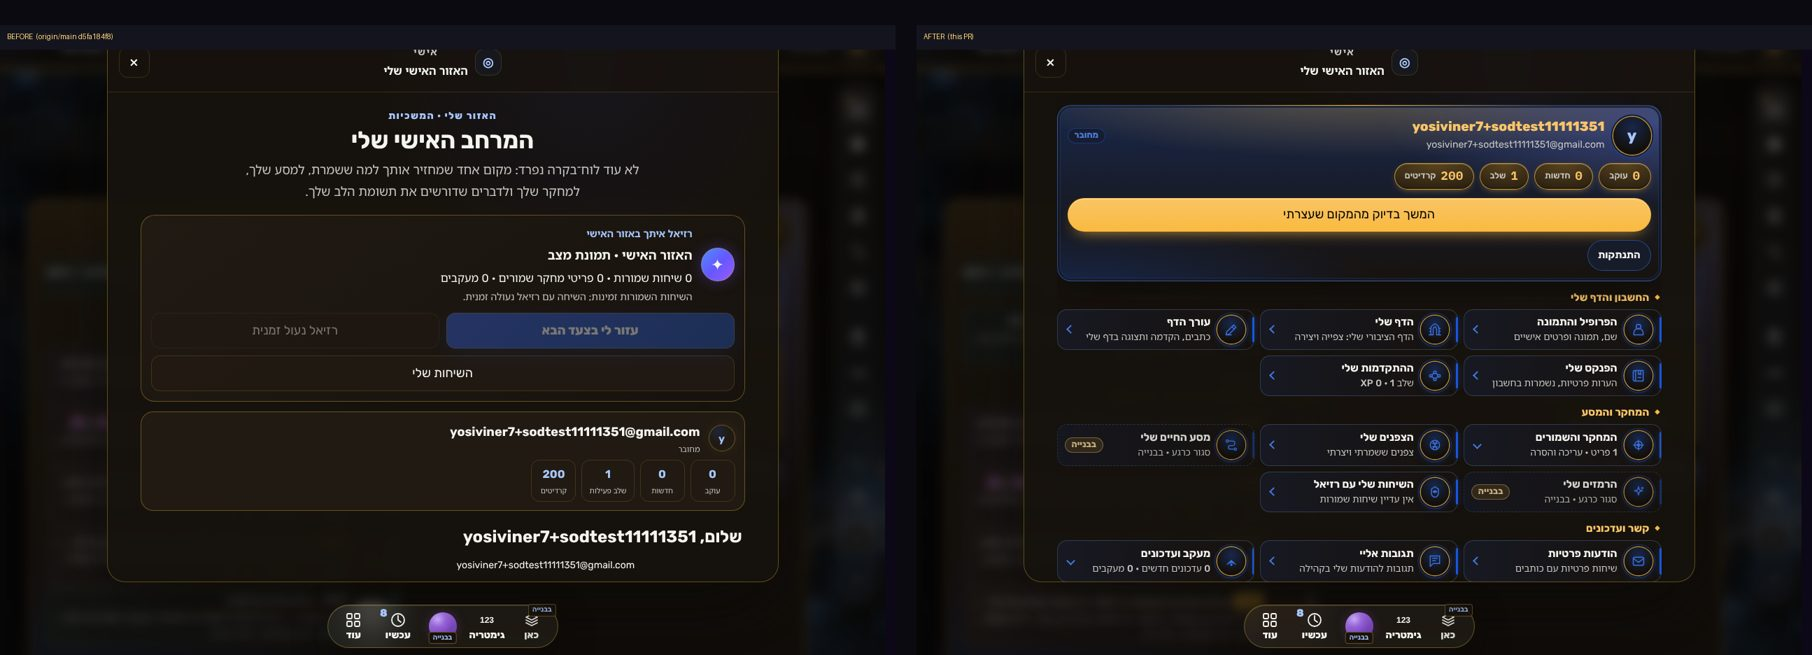
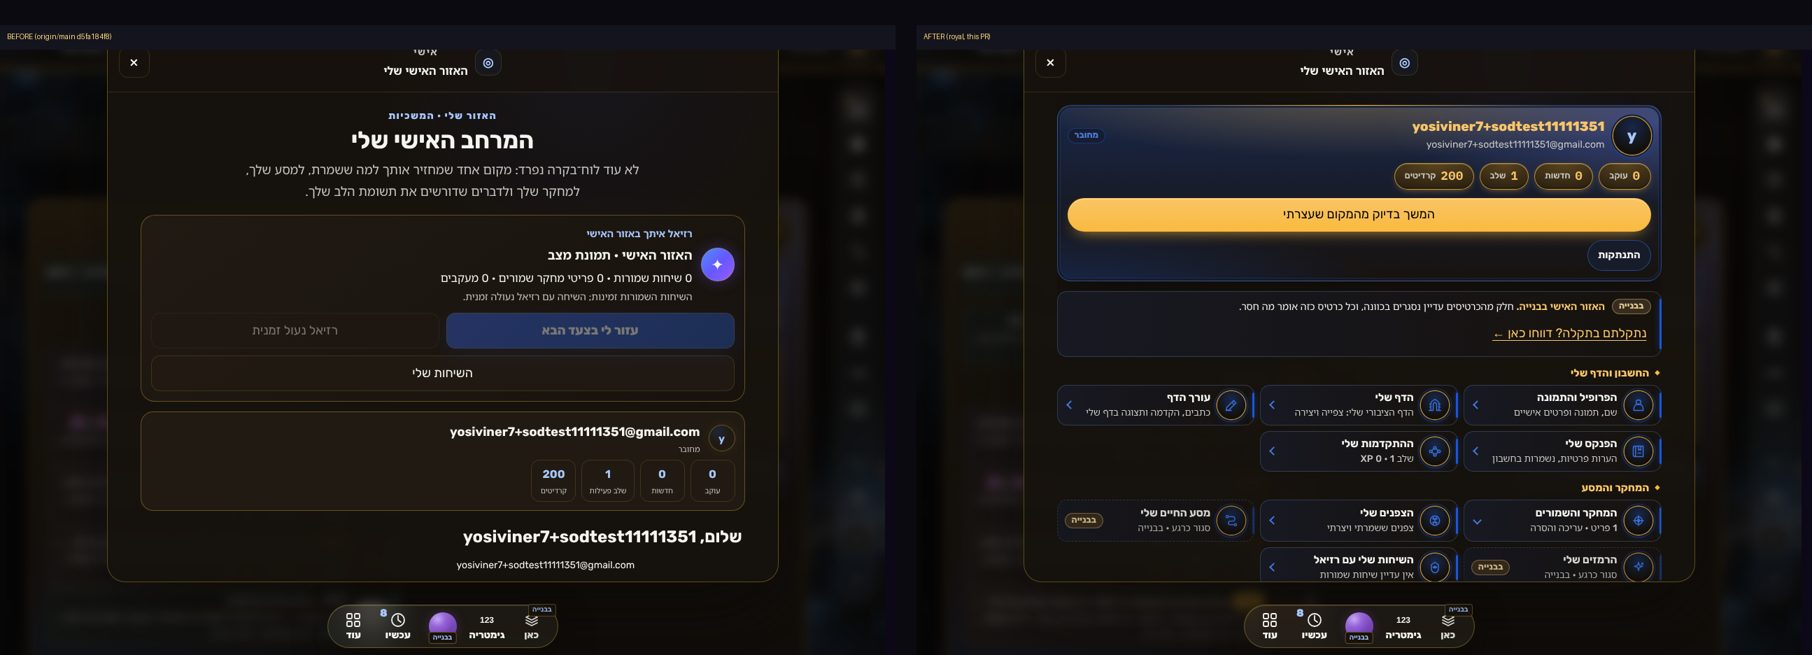
Personal area 2029: royal sign-in (gold, ordered buttons), real Google/Facebook marks, build notice with fault-report link; evidence refreshed
Claude-Session: https://claude.ai/code/session_01H7739JfjFRejdcKEqPQo2e

diff --git a/src/components/experience2029/personalArea2029.css b/src/components/experience2029/personalArea2029.css
@@ -102,3 +102,56 @@ button.pa29-card,.pa29-more-head{cursor:pointer}
 }
 @media (prefers-reduced-motion:reduce){.pa29 *{transition:none!important}}
 @media (forced-colors:active){.pa29-primary{border:2px solid ButtonText;background:ButtonFace;color:ButtonText}.pa29-chev{border-color:ButtonText}}
+
+/* ── Royal sign-in inside the hall (ZURIEL 11.11): gold-ink headings, lit fields, ONE gold action, providers side by side with their real marks,
+   then the quiet links. Order of a guest's form: email → main action → "או" → Google | Facebook → notes → links. ─────────────────────── */
+.pa29-account .sod29-account-entry[data-auth-state="guest"]{display:grid;gap:10px;text-align:center;justify-items:stretch}
+.pa29-account .sod29-account-entry[data-auth-state="guest"] h2{font:800 21px/1.3 var(--s29-font-display,var(--s29-font-ui,inherit));color:var(--r29-gold-ink);margin:0}
+.pa29-account .sod29-account-entry[data-auth-state="guest"]>p{margin:0;font-size:15px;line-height:1.55;color:var(--s29-muted)}
+.pa29-account .sod29-account-entry [data-signup-updates-policy]{margin:0;padding:10px 12px;border-radius:var(--r29-radius-sm);text-align:start;
+  border:1px solid color-mix(in srgb,var(--r29-sapphire) 38%,var(--s29-line));background:color-mix(in srgb,var(--r29-sapphire) 10%,var(--s29-panel))}
+.pa29-account .sod29-account-entry [data-signup-updates-policy] strong{font-size:14px;color:var(--r29-gold-ink)}
+.pa29-account .sod29-account-entry [data-signup-updates-policy] p{margin:4px 0 0;font-size:13px;line-height:1.5;color:var(--s29-muted)}
+.pa29-account .sod29-account-entry form{display:grid;gap:8px;text-align:start}
+.pa29-account .sod29-account-entry label{font:750 14px/1.2 var(--s29-font-ui,inherit);color:var(--r29-gold-ink)}
+.pa29-account .sod29-account-entry input{min-block-size:50px;border-radius:var(--r29-radius-sm);color:var(--s29-ink);
+  border:1px solid color-mix(in srgb,var(--r29-gold) 45%,var(--s29-line));
+  background:linear-gradient(180deg,color-mix(in srgb,var(--r29-sapphire) 12%,var(--s29-panel)),color-mix(in srgb,var(--s29-page) 40%,var(--s29-panel)));
+  box-shadow:inset 0 1px 0 color-mix(in srgb,var(--r29-shine) 10%,transparent)}
+.pa29-account .sod29-account-entry input:focus-visible{outline:2px solid var(--s29-focus-ring,var(--r29-gold));outline-offset:2px;border-color:var(--r29-gold)}
+.pa29-account .sod29-account-entry input::placeholder{color:color-mix(in srgb,var(--s29-muted) 80%,transparent)}
+/* the main action of the form: gold, like the hall's */
+.pa29-account .sod29-account-entry button.sod29-auth-primary[type="submit"]{min-block-size:50px;margin-top:2px;border-radius:999px;font:800 16px/1.2 var(--s29-font-ui,inherit);
+  color:color-mix(in oklab,var(--r29-gold) 10%,black);border:1px solid color-mix(in srgb,var(--r29-gold) 85%,transparent);
+  background:linear-gradient(180deg,color-mix(in oklab,var(--r29-gold) 86%,white),var(--r29-gold));
+  box-shadow:inset 0 1px 0 color-mix(in srgb,var(--r29-shine) 45%,transparent),0 10px 22px -12px color-mix(in srgb,var(--r29-gold) 85%,transparent)}
+:where(.sod29-root[data-frame-theme-preset="light"],.sod29-root[data-frame-theme-preset="parchment"]) .pa29-account .sod29-account-entry button.sod29-auth-primary[type="submit"]{color:var(--s29-on-accent);
+  background:linear-gradient(180deg,color-mix(in oklab,var(--r29-gold) 88%,white),color-mix(in oklab,var(--r29-gold) 92%,black))}
+.pa29-account .sod29-account-entry button.sod29-auth-primary[type="submit"]:disabled{opacity:.6}
+/* alternatives: "או" rule, the providers in two columns, then the links */
+.pa29-account .sod29-auth-alternatives{display:grid;grid-template-columns:repeat(2,minmax(0,1fr));gap:8px;margin-top:2px}
+.pa29-account .sod29-auth-alternatives::before{content:"◆  או  ◆";grid-column:1/-1;order:0;display:block;text-align:center;font:700 12.5px/1 var(--s29-font-ui,inherit);letter-spacing:.08em;color:var(--r29-gold);padding:2px 0}
+.pa29-account .sod29-auth-alternatives>[data-auth-provider]{order:1;margin:0;min-block-size:50px;gap:9px;border-radius:999px;padding:0 10px;font:750 14.5px/1.1 var(--s29-font-ui,inherit);color:var(--s29-ink);
+  border:1px solid color-mix(in srgb,var(--r29-gold) 50%,var(--s29-line));background:linear-gradient(180deg,color-mix(in srgb,var(--r29-sapphire) 16%,var(--s29-panel)),color-mix(in srgb,var(--r29-sapphire) 6%,var(--s29-panel)));
+  box-shadow:inset 0 1px 0 color-mix(in srgb,var(--r29-shine) 12%,transparent),0 6px 16px -10px color-mix(in srgb,var(--r29-sapphire) 80%,transparent)}
+.pa29-account .sod29-auth-alternatives>[data-auth-provider]:disabled{opacity:.62}
+@media (hover:hover){.pa29-account .sod29-auth-alternatives>[data-auth-provider]:not(:disabled):hover{border-color:var(--r29-gold);filter:brightness(1.08)}}
+.pa29-account .sod29-auth-alternatives>.sod29-auth-method-note{order:2;grid-column:1/-1;margin:0;text-align:center;font-size:13px;line-height:1.5;color:var(--s29-muted)}
+.pa29-account .sod29-auth-alternatives>:is(.sod29-auth-link,.sod29-auth-secondary:not([data-auth-provider])){order:3;grid-column:1/-1;margin:0;min-block-size:42px;color:var(--r29-gold-ink);font-size:14.5px;font-weight:700}
+.sod29-provider-mark{flex:none;inline-size:22px;block-size:22px;display:block}
+.pa29-account .sod29-auth-alternatives>[data-auth-provider] span{min-inline-size:0;overflow:hidden;text-overflow:ellipsis;white-space:nowrap}
+@media (max-width:360px){.pa29-account .sod29-auth-alternatives{grid-template-columns:minmax(0,1fr)}}
+
+/* ── The build notice: what is closed, and where to report a fault ─────────────────────────────────────────────────────────── */
+.pa29-build{--r29-hue:var(--r29-amber);display:grid;grid-template-columns:auto minmax(0,1fr);align-items:center;gap:6px 10px;padding:10px 14px 10px 12px}
+.pa29-build-badge{--r29-hue:var(--r29-amber)}
+.pa29-build p{margin:0;font-size:14px;line-height:1.5;color:var(--s29-ink)}
+.pa29-build p strong{color:var(--r29-gold-ink)}
+.pa29-report{grid-column:1/-1;justify-self:start;min-block-size:44px;padding:0 6px;border:0;background:none;cursor:pointer;font:750 14.5px/1.2 var(--s29-font-ui,inherit);color:var(--r29-gold-ink);text-decoration:underline;text-underline-offset:4px}
+.pa29-report:focus-visible{outline:2px solid var(--s29-focus-ring,var(--s29-accent));outline-offset:3px;border-radius:8px}
+.pa29-account .sod29-auth-provider-lead{position:absolute;inline-size:1px;block-size:1px;overflow:hidden;clip-path:inset(50%);white-space:nowrap}
+.pa29-account .sod29-auth-alternatives>[data-auth-provider]{position:relative}
+.pa29-note{padding:10px 14px;text-align:start}
+.pa29-note :is(h2,h3,h4,strong){margin:0;font:750 15px/1.3 var(--s29-font-ui,inherit);color:var(--r29-gold-ink)}
+.pa29-note :is(p,div,span){margin:2px 0 0;font:500 13.5px/1.5 var(--s29-font-body,var(--s29-font-ui,inherit));color:var(--s29-muted)}
+.pa29-note :is(svg,.sod29-frame-state-icon){display:none}

diff --git a/src/components/experience2029/SystemFrame2029.jsx b/src/components/experience2029/SystemFrame2029.jsx
@@ -1149,9 +1149,10 @@ function AccountConnection2029() {
 // A guest (or an account not yet verified) sees the account hall with the sign-in form and what opens after signing in.
 function PersonalGuestHome2029() {
   const { loading } = useAuth();
+  const { openIssueReport } = use2029Shell();
   const cards = personalCards({ signedIn: false });
-  return <PersonalHomeLazy2029 signedIn={false} avatar={<UserAvatar2029 user={null} profile={null} size="header" />} cards={cards}
-    primary={loading ? null : personalPrimaryAction({ signedIn: false })}
+  return <PersonalHomeLazy2029 signedIn={false} onReport={() => openIssueReport({ capability: "personal_area" })} avatar={<UserAvatar2029 user={null} profile={null} size="header" />} cards={cards}
+    primary={null}
     slots={{ account: <AccountConnection2029 />, guestNote: <FrameState kind="empty" title="האזור האישי שלך">התחברות לחשבון קיים תציג את הפרטים והשמורים שלך. שמירה ועריכה נעשות בפעולה מפורשת; התחברות אינה מפעילה רזיאל, חיוב או דיוור.</FrameState> }} />;
 }
 
@@ -1168,6 +1169,7 @@ function WorkspaceProjectionOpen({ context, go, onRaziel, onOpenPrivateHints, jo
   const savedSubject = normalizeTarget(savedContext?.subject, "saved-research-path");
   const [actionState, setActionState] = useState(null);
   const { user, profile, signOut, loading: authLoading } = useAuth();
+  const { openIssueReport } = use2029Shell();
   const userId = user?.id || null;
   const [follows, setFollows] = useState({ status: "loading", topics: [] });
   const [inbox, setInbox] = useState({ status: "loading", unread: null });
@@ -1378,7 +1380,7 @@ function WorkspaceProjectionOpen({ context, go, onRaziel, onOpenPrivateHints, jo
     </div>
   </section>;
 
-  return <PersonalHomeLazy2029 signedIn={!!userId} name={profileName} email={user?.email || ""} avatar={<UserAvatar2029 user={user} profile={profile} size="header" />}
+  return <PersonalHomeLazy2029 signedIn={!!userId} onReport={() => openIssueReport({ capability: "personal_area" })} name={profileName} email={user?.email || ""} avatar={<UserAvatar2029 user={user} profile={profile} size="header" />}
     stats={stats} follows={follows} inbox={inbox} cards={cards} primary={primary} onPrimary={onPrimary} onNavigate={onNavigate} onAction={onAction}
     focusSection={focusSection} onSectionHandled={() => setFocusSection(null)} guestLists
     slots={{ account: <AccountConnection2029 user={user} profile={profile} signOut={signOut} />, research: researchNode, follow: followNode, raziel: razielNode }} />;

diff --git a/src/components/auth2029/AccountEntry2029.jsx b/src/components/auth2029/AccountEntry2029.jsx
@@ -8,6 +8,7 @@ import { authStorageStatus, probeAuthStorage, summarizeLocalStorage } from "../.
 import { refreshAppRuntime } from "../../lib/authRecovery.js";
 import { markOtpSent, otpResendWaitMs } from "../../lib/otpThrottle.js";
 import { EMAIL_OTP_MAX_LENGTH, isValidEmailOtp, sanitizeEmailOtp } from "../../lib/emailOtp.js";
+import { ProviderMark2029 } from "./ProviderMark2029.jsx";
 import { safePreviewOAuthReturnPath } from "../../lib/oauthReturn.js";
 import { writerPersonalHref } from "../../lib/userCenter/writerPersonal2029.js";
 import { use2029Palette } from "../../lib/palette2029.js";
@@ -139,7 +140,7 @@ export default function AccountEntry2029({ returnHref = "/2029", inline = false,
             {methods.state === "ready" && methods.email && step === "email" ? <button className="sod29-auth-link" type="button" disabled={busy} data-auth-action="have-code"
               onClick={() => { const address = email.trim(); if (!/^[^@\s]+@[^@\s]+\.[^@\s]+$/.test(address)) { setError("הזינו קודם את כתובת המייל שאליה נשלח הקוד."); return; } setEmail(address); setStep("code"); setError(""); }}>כבר קיבלתי קוד</button> : null}
             {methods.state === "ready" && methods.email ? <button className="sod29-auth-link" type="button" disabled={busy} onClick={() => changeStep(step === "email" ? "password" : "email")}>{step === "email" ? "כניסה עם סיסמה" : step === "code" ? "שינוי כתובת או בקשת קוד חדש" : "כניסה עם קוד למייל"}</button> : null}
-            {methods.oauth.map(method => <button key={method.id} className="sod29-auth-secondary" type="button" disabled={busy || !method.available} aria-describedby={!method.available ? `${fieldId}-oauth-state` : undefined} onClick={() => federated(method.id)}>המשך עם {method.label}</button>)}
+            {methods.oauth.map(method => <button key={method.id} className="sod29-auth-secondary" type="button" data-auth-provider={method.id} disabled={busy || !method.available} aria-describedby={!method.available ? `${fieldId}-oauth-state` : undefined} onClick={() => federated(method.id)}><ProviderMark2029 id={method.id} /><span><span className="sod29-auth-provider-lead">המשך עם </span>{method.label}</span></button>)}
             {methods.oauth.some(method => !method.available) ? <p id={`${fieldId}-oauth-state`} className="sod29-auth-method-note">{"הכניסה עם Google ו־Facebook ממתינה לאישור כתובת החזרה. אפשר להיכנס עם מייל וסיסמה או קוד למייל."}</p> : null}
           </div>
         </>}

diff --git a/src/components/experience2029/PersonalHome2029.jsx b/src/components/experience2029/PersonalHome2029.jsx
@@ -45,7 +45,7 @@ function Disclosure({ id, open, onToggle, icon, title, hint, children, hue = "re
 }
 
 export default function PersonalHome2029({ signedIn, name, email, avatar, stats, follows, inbox, cards, primary, onPrimary, onNavigate, onAction,
-  slots = {}, focusSection = null, onSectionHandled, guestLists = false }) {
+  slots = {}, focusSection = null, onSectionHandled, guestLists = false, onReport }) {
   const [open, setOpen] = useState({});
   const accountRef = useRef(null);
   const toggle = id => setOpen(value => ({ ...value, [id]: !value[id] }));
@@ -102,8 +102,14 @@ export default function PersonalHome2029({ signedIn, name, email, avatar, stats,
       <div className="pa29-account" data-workspace-section="account" ref={accountRef}>{slots.account}</div>
     </section>
 
+    <aside className="pa29-build r29-card" data-r29-kind="ember" data-pa29-build aria-label="האזור האישי בבנייה">
+      <span className="r29-badge pa29-build-badge" aria-hidden="true">בבנייה</span>
+      <p><strong>האזור האישי בבנייה.</strong> חלק מהכרטיסים עדיין נסגרים בכוונה, וכל כרטיס כזה אומר מה חסר.</p>
+      {onReport ? <button type="button" className="pa29-report" data-pa29-report onClick={onReport}>נתקלתם בתקלה? דווחו כאן ←</button> : null}
+    </aside>
+
     {!signedIn && !guestLists ? <>
-      {slots.guestNote}
+      {slots.guestNote ? <div className="pa29-note r29-card" data-r29-kind="research">{slots.guestNote}</div> : null}
       <section className="pa29-more r29-card" data-r29-kind="research" aria-label="מה יש באזור האישי אחרי כניסה">
         <details className="pa29-guest-list">
           <summary><span className="pa29-card-text"><strong>מה יש באזור האישי</strong><small>אחרי כניסה: פרופיל, דף, שמורים, הודעות ועוד</small></span><span className="pa29-chev" aria-hidden="true" /></summary>

diff --git a/src/components/auth2029/ProviderMark2029.jsx b/src/components/auth2029/ProviderMark2029.jsx
@@ -1,0 +1,17 @@
+import React from "react";
+
+// The real sign-in marks of the identity providers, as the providers publish them (Google "G" in its four colours, Facebook "f" in its blue disc).
+// A brand mark keeps its own colours in every theme; it is decoration only (aria-hidden): the button's text names the provider.
+export function ProviderMark2029({ id, size = 22 }) {
+  if (id === "google") return <svg className="sod29-provider-mark" data-provider-mark="google" width={size} height={size} viewBox="0 0 48 48" aria-hidden="true" focusable="false">
+    <path fill="#EA4335" d="M24 9.5c3.54 0 6.71 1.22 9.21 3.6l6.85-6.85C35.9 2.38 30.47 0 24 0 14.62 0 6.51 5.38 2.56 13.22l7.98 6.19C12.43 13.72 17.74 9.5 24 9.5z" />
+    <path fill="#4285F4" d="M46.98 24.55c0-1.57-.15-3.09-.38-4.55H24v9.02h12.94c-.58 2.96-2.26 5.48-4.78 7.18l7.73 6c4.51-4.18 7.09-10.36 7.09-17.65z" />
+    <path fill="#FBBC05" d="M10.53 28.59c-.48-1.45-.76-2.99-.76-4.59s.27-3.14.76-4.59l-7.98-6.19C.92 16.46 0 20.12 0 24c0 3.88.92 7.54 2.56 10.78l7.97-6.19z" />
+    <path fill="#34A853" d="M24 48c6.48 0 11.93-2.13 15.89-5.81l-7.73-6c-2.15 1.45-4.92 2.3-8.16 2.3-6.26 0-11.57-4.22-13.47-9.91l-7.98 6.19C6.51 42.62 14.62 48 24 48z" />
+  </svg>;
+  if (id === "facebook") return <svg className="sod29-provider-mark" data-provider-mark="facebook" width={size} height={size} viewBox="0 0 48 48" aria-hidden="true" focusable="false">
+    <circle cx="24" cy="24" r="24" fill="#1877F2" />
+    <path fill="#FFFFFF" d="M33.34 30.9 34.4 24h-6.62v-4.48c0-1.89.92-3.73 3.89-3.73h3.01V9.92s-2.73-.47-5.34-.47c-5.45 0-9.01 3.3-9.01 9.29V24h-6.06v6.9h6.06v16.68a24.1 24.1 0 0 0 7.46 0V30.9h5.55z" />
+  </svg>;
+  return null;
+}

diff --git a/docs/reviews/personal-area-2029-20261111/README.md b/docs/reviews/personal-area-2029-20261111/README.md
@@ -9,6 +9,13 @@
 - `SystemFrame2029.jsx` (אזור `WorkspaceProjection*`, כ־1065–1470) — בונה כרטיסים ו־slots; הכפילות של בלוקי חשבון הוסרה.
 - `keyboardClearance2029` — מרווח דינמי למקלדת בנייד (visualViewport) ו־`scroll-padding`, כך שכפתור "שמירת הסיסמה" ושדות אישור אינם מכוסים בסרגל התחתון/במקלדת (גם במסך השחזור וגם מהחשבון).
 
+## עדכון עיצוב (ZURIEL 11.11, אחרי הסבב הראשון)
+- טופס הכניסה בתוך האולם בשפה המלכותית: כותרת בזהב, שדות מוארים, פעולה זהובה אחת. לאורח אין עוד כפתור זהב כפול למעלה.
+- סדר הכפתורים: מייל ← "שלחו לי קוד כניסה" (זהב) ← "◆ או ◆" ← Google | Facebook זה לצד זה ← הערות ← קישורים ("כבר קיבלתי קוד", "כניסה עם סיסמה").
+- סמלי Google (ארבעה צבעים) ו־Facebook (עיגול כחול) האמיתיים בכפתורים, `ProviderMark2029.jsx`; השם הנגיש נשאר "המשך עם Google/Facebook". שינוי בקובץ משותף `AccountEntry2029.jsx`: שורת ה־oauth בלבד, ייתכן קונפליקט קטן עם #1313 במיזוג.
+- פס "האזור האישי בבנייה" עם קישור "נתקלתם בתקלה? דווחו כאן" שפותח את דיווח הבעיה הקיים (`openIssueReport`, `capability=personal_area`), ללא מנגנון חדש.
+- בדיקות: נוספו לבדיקת הדפדפן הקיימת (פס הבנייה, קישור הדיווח, סמלי הספקים); 70/70 פקודות CI מקומיות עוברות שוב.
+
 ## מה נבדק, מה תוקן, מה חסום (כרטיס לכרטיס)
 | כרטיס | יעד (אומת) | מקור נתונים | מצב ריק | חזרה | מצב |
 |---|---|---|---|---|---|
